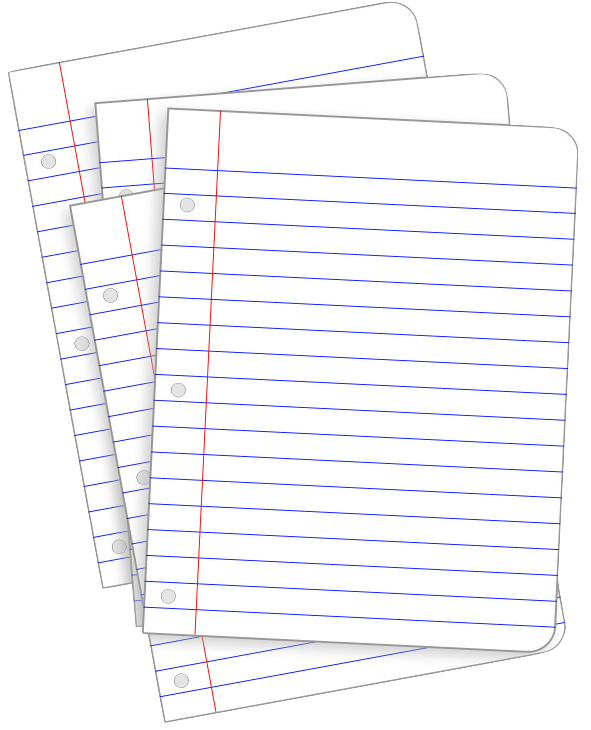
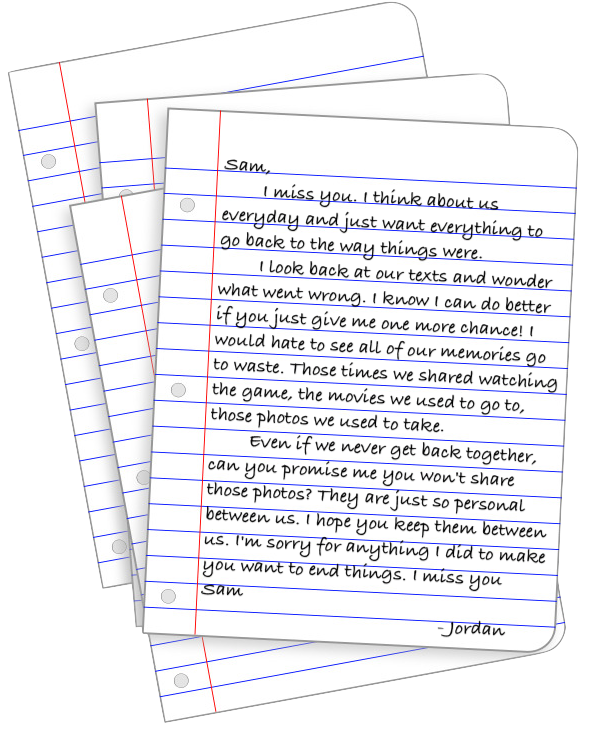
added hint feature and cleaned up papers text

Changed region(s): [[0.335, 0.2411, 0.9442, 0.8137], [0.7614, 0.8438, 0.8528, 0.874], [0.3655, 0.211, 0.4569, 0.2411]]

diff --git a/assets/js/part1-clueroom.js b/assets/js/part1-clueroom.js
@@ -1,4 +1,5 @@
 $('document').ready(function(){
+    var checked = [note1, note2, note3, cards, books];
     /* note 1 */
     $('#note1').click(function(){
         $('#note1').fadeOut(500);
@@ -14,6 +15,8 @@ $('document').ready(function(){
         $('.note1-message').fadeOut(500);
         $('.note1-writing').fadeOut(500);
         $('#note1').fadeIn(2000);
+        checked[0] = true;
+        hint();
     });
     
     /* note 2 */
@@ -31,6 +34,8 @@ $('document').ready(function(){
         $('.note2-message').fadeOut(500);
         $('.note2-writing').fadeOut(500);
         $('#note2').fadeIn(2000);
+        checked[1] = true;
+        hint();
     });
 
     /* note 3 */
@@ -48,6 +53,8 @@ $('document').ready(function(){
         $('.note3-message').fadeOut(500);
         $('.note3-writing').fadeOut(500);
         $('#note3').fadeIn(2000);
+        checked[2] = true;
+        hint();
     });
 
     /* cards */
@@ -62,6 +69,8 @@ $('document').ready(function(){
         $('.cards-pressed').fadeOut(500);
         $('.cards-message').fadeOut(500);
         $('.cards').fadeIn(2000);
+        checked[3] = true;
+        hint();
     });
 
     /* bookStack secret papers */
@@ -73,18 +82,37 @@ $('document').ready(function(){
 
     $('.papers-no').click(function(){
         $('.books-message').fadeOut(500);
+        checked[4] = true;
+        hint();
     });
 
     $('.papers-yes').click(function(){
         $('.books-message').fadeOut(500);
         $('.papers').fadeIn(2000);
         $('.papers-message').fadeIn(2000);
-        $('.papers-writing').fadeIn(2000);
+        checked[4] = true;
     });
 
     $('.papers-next').click(function(){
         $('.papers').fadeOut(500);
         $('.papers-message').fadeOut(500);
-        $('.papers-writing').fadeOut(500);
+        hint();
     });
+
+    function hint(){
+        var i;
+        var message = false;
+        for (i = 0; i < checked.length; i++) {
+            if (checked[i] == true){
+                message = true;
+            }
+            else{
+                message = false;
+                return;
+            }
+        }
+        if (message = true){
+            $('.hint').fadeIn(2000);
+        }
+    }
 });

diff --git a/assets/css/part1-clueroom.css b/assets/css/part1-clueroom.css
@@ -3,6 +3,17 @@
 .room{
     background-image: url("../../images/pt1.jpeg");
 }
+.hint{
+    position: absolute;
+    top: 5%;
+    text-align: center;
+    left: 50%;
+    transform: translate(-50%, -50%);
+    font-family: 'Courier New', Courier, monospace;
+    background-color: rgba(0, 0, 0, 0.5);
+    padding: 1.5%;
+    width: 95%;
+}
 .note{
     background: transparent;
     position: absolute;
@@ -48,7 +59,7 @@
     position: absolute;
     top: 25%;
     left: 3%;
-    height: 70%;
+    height: 60%;
     z-index: +1;
 }
 /* button */
@@ -79,7 +90,7 @@
 /* note 1 message */
 .note1-message{
     text-align: center;
-    height: 40%;
+    height: 60%;
     width: 30%;
     font-size: 17px;
     font-family: 'Courier New', Courier, monospace;
@@ -92,7 +103,7 @@
 /* note 2 message */
 .note2-message{
     text-align: center;
-    height: 40%;
+    height: 60%;
     width: 30%;
     font-size: 17px;
     font-family: 'Courier New', Courier, monospace;
@@ -105,7 +116,7 @@
 /* note 3 message */
 .note3-message{
     text-align: center;
-    height: 40%;
+    height: 60%;
     width: 30%;
     font-size: 17px;
     font-family: 'Courier New', Courier, monospace;
@@ -119,7 +130,7 @@
 /* cards */
 .cards-message{
     text-align: center;
-    height: 40%;
+    height: 60%;
     width: 30%;
     font-size: 17px;
     font-family: 'Courier New', Courier, monospace;
@@ -183,14 +194,4 @@
     color: black;
     font-family: 'Indie Flower', cursive;
     font-size: 30px;
-}
-.papers-writing{
-    position: absolute;
-    width: 20%;
-    top: 21.5%;
-    left: 24%;
-    z-index: +2;
-    color: black;
-    font-family: 'Indie Flower', cursive;
-    transform: rotate(3.5deg);
 }

diff --git a/part1-clueroom.html b/part1-clueroom.html
@@ -54,6 +54,9 @@
     <!-- note cards after pressed -->
     <img class="cards-pressed" id="cards" src="images/cards.png" alt="study cards" hidden>
 
+    <!-- hint -->
+    <div class="hint" hidden>Maybe the report isn't even here...</div>
+
     <!-- message note 1 -->
     <div class="note-writing note1-writing" hidden>
         Don't forget your report on digital privacy! Remember to make stronger passwords and change account settings!
@@ -108,15 +111,6 @@
         <a class="button papers-no">No</a>
     </div>
 
-    <!-- papers message -->
-    <div class="papers-writing" hidden>
-        Sam,<br>
-        I miss you. I think about us everyday and just want everything to go back to the way things were.
-        I look back at our texts and wonder what went wrong. I know I can do better if you just give me one more chance! I would hate to see all of our memories go to waste. Those times we shared watching the game, the movies we used to go to, those photos we used to take.
-        Even if we never get back together, can you promise me you won't share those photos? They are just so personal between us. I hope yu keep them between us. I'm sorry for anything I did to make you want to end things. I miss you Sam <br>
-        - Jordan
-
-    </div>
     <div class="papers-message" hidden>
         This looks like a letter from Jordan to Sam!<br><br> 
         It mentions Jordan not being able to get over Sam! And all of their memories together. Looks like they shared a lot together. Do you think the photos Jordan talked about could be the same photos that were leaked of Sam?<br><br> 

diff --git a/assets/js/clueroom.js b/assets/js/clueroom.js
@@ -10,6 +10,7 @@ $('document').ready(function(){
     /* finish */
     $('.finish').click(function(){
         $('.finish').fadeOut(1000);
+        $('.hint').fadeOut(1000);
         $('.overlay').fadeIn(1000);
         $('.end').fadeIn(1000);
     });
